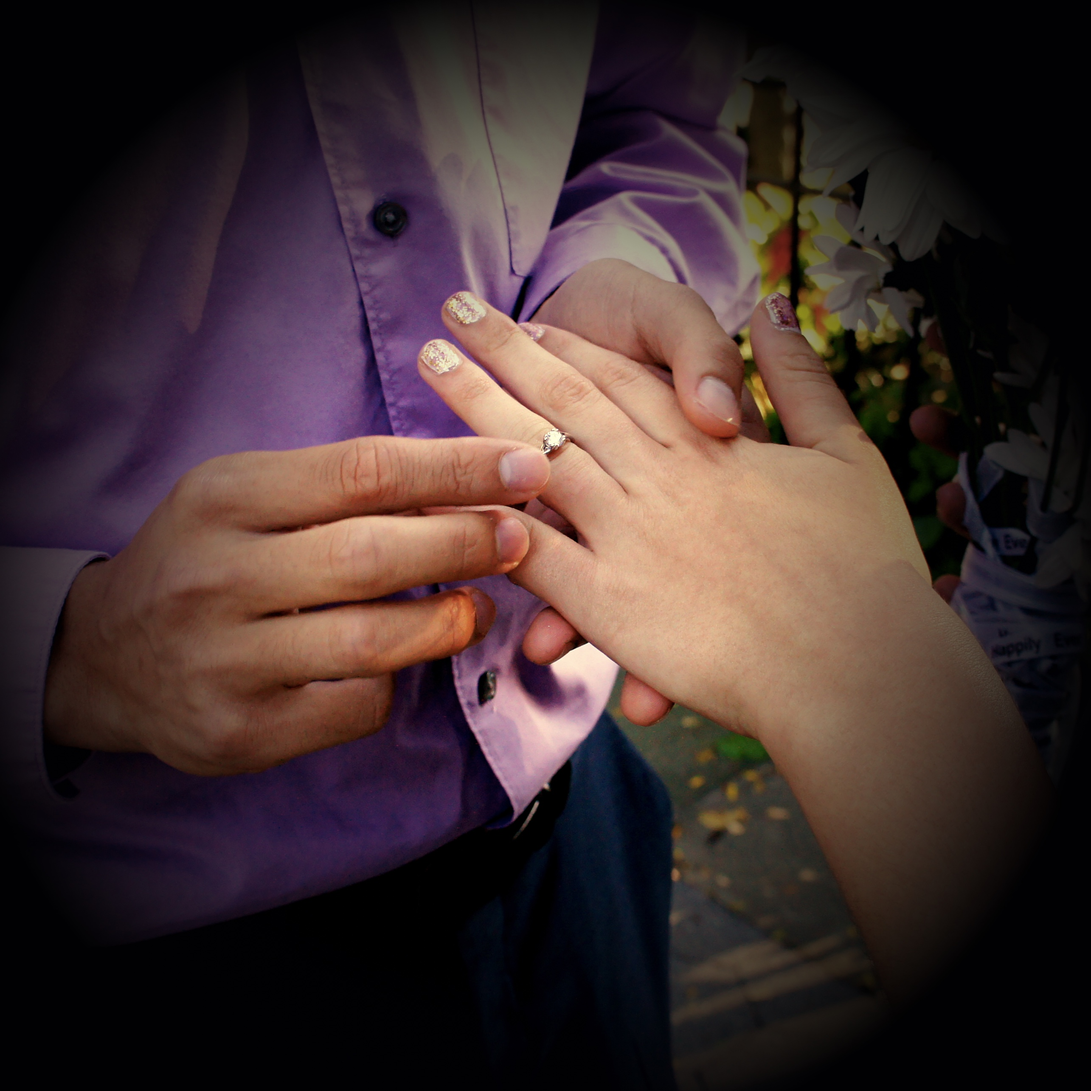
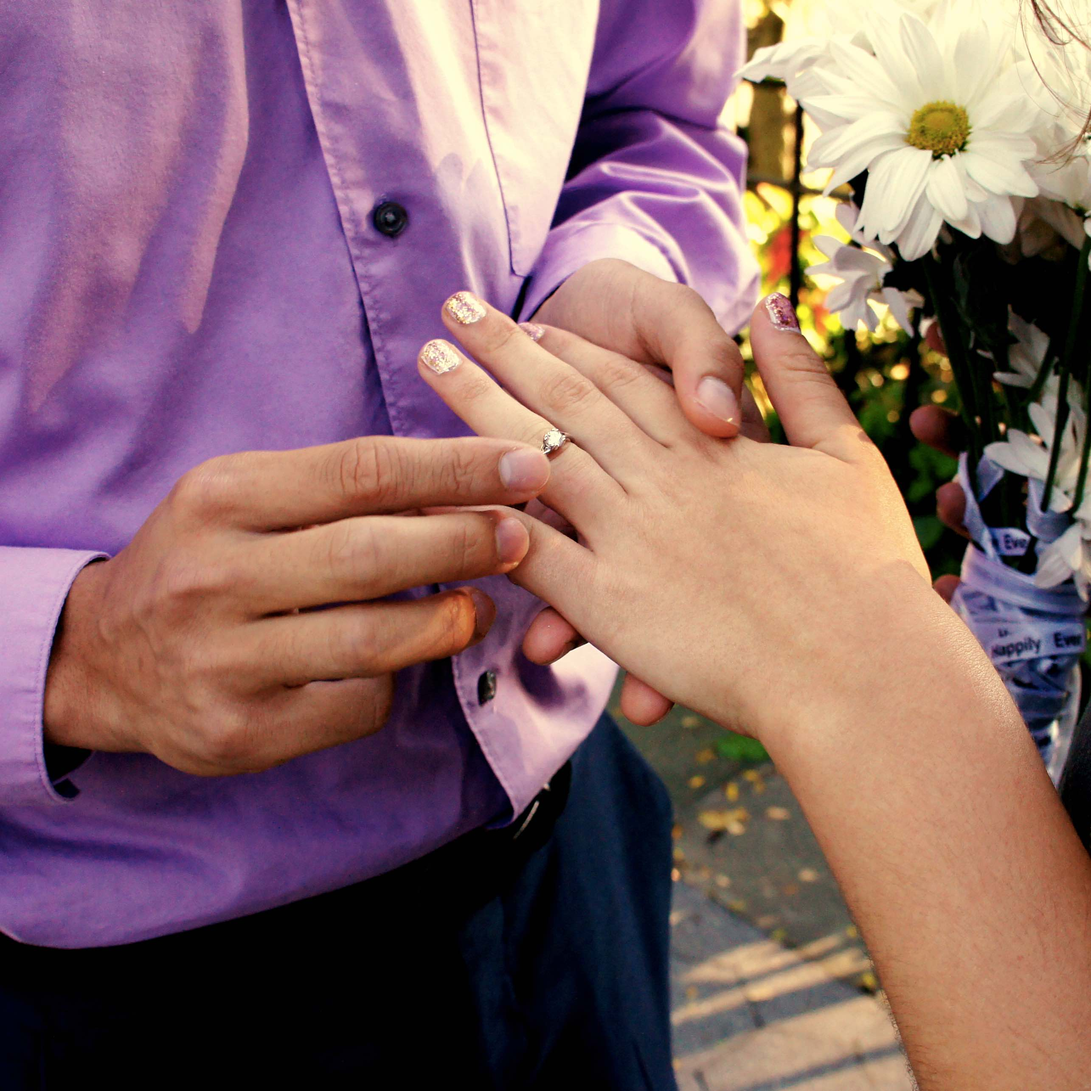
add(many): cleaning up and adding bio content

diff --git a/index.html b/index.html
@@ -60,10 +60,14 @@
       <h2 class="sectiontitle">OUR STORY</h2>
       <div class="section col-md-1"></div>
       <div class="section col-md-3">
-        <img class="img-responsive" src="img/tannijames.png">
+        <img class="img-responsive img-circle partyimages" src="img/tannijames.jpg">
       </div>
       <div class="section col-md-7">
-        <p>Lorem ipsum dolor sit amet, consectetur adipiscing elit, sed do eiusmod tempor incididunt ut labore et dolore magna aliqua. Ut enim ad minim veniam, quis nostrud exercitation ullamco laboris nisi ut aliquip ex ea commodo consequat. Duis aute irure dolor in reprehenderit in voluptate velit esse cillum dolore eu fugiat nulla pariatur. Excepteur sint occaecat cupidatat non proident, sunt in culpa qui officia deserunt mollit anim id est laborum.</p>
+        <p>Shortly after starting their freshman year at Columbia University, Tanni and James met for the first time. Both had gotten involved with Christian Union at Columbia, a ministry and family that would later evolve into Columbia Faith and Action, earlier in the semester, but at that point the men and the women in the group had not crossed the gender barrier and met each other yet. And so at a Christian Union social event in JJ's Place, the two were fatefully introduced... and did not speak a word to each other that night.</p>
+
+        <p>Their first conversation was prompted by Tanni (at the time called "Tatianna" by James) being the sole attendee of a praise and worship night hosted by James. After struggling through finding songs they both knew, they settled on DCB's "How He Loves" (it turned out that Tanni actually quite disliked the song, while James was long under the impression that she loved it). Over the course of the next year, both Tanni and James served in leadership for CFA and grew in mutual admiration, seeing the other's love for Jesus and care for others.</p>
+
+        <p>This admiration gradually grew into attraction which became solidified in commitment on March 31, 2013. James and Tanni greatly enjoyed their time dating, experiencing the ups and downs and ups of learning one another, meeting the other's family, and having adventures both together and at a distance from one another. However, this finally changed on a fateful Sunday in October 2014...</p>
       </div>
       <div class="section col-md-1"></div>
     </div>
@@ -77,7 +81,7 @@
         <p>Lorem ipsum dolor sit amet, consectetur adipiscing elit, sed do eiusmod tempor incididunt ut labore et dolore magna aliqua. Ut enim ad minim veniam, quis nostrud exercitation ullamco laboris nisi ut aliquip ex ea commodo consequat. Duis aute irure dolor in reprehenderit in voluptate velit esse cillum dolore eu fugiat nulla pariatur. Excepteur sint occaecat cupidatat non proident, sunt in culpa qui officia deserunt mollit anim id est laborum.</p>
       </div>
       <div class="section col-md-3">
-        <img class="img-responsive" src="img/proposal.jpg">
+        <img class="img-responsive img-circle partyimages" src="img/proposal.jpg">
       </div>
       <div class="section col-md-1"></div>
     </div>
@@ -190,11 +194,11 @@
 
   <div class="guest-bio" id="xue">
       <h2>James Xue, Best Man</h2>
-      <p>Lorem ipsum dolor sit amet, consectetur adipiscing elit, sed do eiusmod tempor incididunt ut labore et dolore magna aliqua. Ut enim ad minim veniam, quis nostrud exercitation ullamco laboris nisi ut aliquip ex ea commodo consequat. Duis aute irure dolor in reprehenderit in voluptate velit esse cillum dolore eu fugiat nulla pariatur. Excepteur sint occaecat cupidatat non proident, sunt in culpa qui officia deserunt mollit anim id est laborum.</p>
+      <p>He is Chinese-American, studies Computer Science, hails from a suburban town about 2 hours from New York City, has a sister who graduated from Johns Hopkins, and loves Jesus; he is James... Xue. After finding out that he shared a rather unusual number of traits with the groom, James subsequently agreed to be the groom's roommate and best friend for every one of their four years at Columbia. In their prime, you could commonly find these two coding, taking late night strolls around campus, and balling at Dodge. Through all of these experiences and more, James has forever shaped the trajectory of the groom's life into one of more love, more serious thought and reflection, and more of God's adventure. James holds bioinformatics and Columbia's Christian A Capella group Jubilation! dear to his heart, and he will be pursuing a PhD and research career in one of the two.</p>
   </div>
   <div class="guest-bio" id="karl">
       <h2>Karl Li, Best Man</h2>
-      <p>Lorem ipsum dolor sit amet, consectetur adipiscing elit, sed do eiusmod tempor incididunt ut labore et dolore magna aliqua. Ut enim ad minim veniam, quis nostrud exercitation ullamco laboris nisi ut aliquip ex ea commodo consequat. Duis aute irure dolor in reprehenderit in voluptate velit esse cillum dolore eu fugiat nulla pariatur. Excepteur sint occaecat cupidatat non proident, sunt in culpa qui officia deserunt mollit anim id est laborum.</p>
+      <p>Sometime around the 4th grade, when the groom discovered that he possessed a Gameboy Link Cable, Karl became a much cherished friend in the groom's eyes. Little did either of them know that this was the beginning of a special friendship, rivaling the brotherhood of Mario and Luigi, which would mold and shape them both in those formative years. Karl taught the groom how to be transparent before his peers, how NOT to interact with girls back in middle school and high school, and how to love Jesus with fervor and intensity. With Relient K as their muse, Karl and the groom could often be found in the church sanctuary jamming on guitar and bass as well as loving on their Brothers-in-Christ in various ways. Karl is passionate about business, technology, and the Gospel, and he will be in Philadelphia start his labor in tech consulting in the coming months.</p>
   </div>
     <div class="guest-bio" id="dasha">
       <h2>Dasha Korolev, Maid of Honor</h2>
@@ -205,11 +209,11 @@
       <p>Lorem ipsum dolor sit amet, consectetur adipiscing elit, sed do eiusmod tempor incididunt ut labore et dolore magna aliqua. Ut enim ad minim veniam, quis nostrud exercitation ullamco laboris nisi ut aliquip ex ea commodo consequat. Duis aute irure dolor in reprehenderit in voluptate velit esse cillum dolore eu fugiat nulla pariatur. Excepteur sint occaecat cupidatat non proident, sunt in culpa qui officia deserunt mollit anim id est laborum.</p>
   <div class="guest-bio" id="wilson">
       <h2>Wilson Hsu, Groomsman</h2>
-      <p>Lorem ipsum dolor sit amet, consectetur adipiscing elit, sed do eiusmod tempor incididunt ut labore et dolore magna aliqua. Ut enim ad minim veniam, quis nostrud exercitation ullamco laboris nisi ut aliquip ex ea commodo consequat. Duis aute irure dolor in reprehenderit in voluptate velit esse cillum dolore eu fugiat nulla pariatur. Excepteur sint occaecat cupidatat non proident, sunt in culpa qui officia deserunt mollit anim id est laborum.</p>
+      <p>Wilson and the groom met a long, long time ago, back in the days of full day Vacation Bible School and Chinese Culture Camp, where slip 'n slides and grappling tournaments were highlights of the summer months. Over the years, Wilson could often be found teaching the groom to breakdance among other athletic and artistic endeavors, getting him to loosen and lighten up, and filling out the rhythm section of Jamwilkarsones with the groom. Their relationship was not always smooth; it had to endure times of intense drama, anger, passion, and compassion. But praise God that He used these moments in His infinite wisdom. Wilson taught the groom about loyalty and resilience, both of which are challenging lessons. When he isn't serving and loving his ROX and Pi Alpha Phi communities, he can be found playing a variety sports or video games; Wilson will be pursuing a career in tech after graduation.</p>
   </div>
   <div class="guest-bio" id="ryan">
       <h2>Ryan Bae, Groomsman</h2>
-      <p>Lorem ipsum dolor sit amet, consectetur adipiscing elit, sed do eiusmod tempor incididunt ut labore et dolore magna aliqua. Ut enim ad minim veniam, quis nostrud exercitation ullamco laboris nisi ut aliquip ex ea commodo consequat. Duis aute irure dolor in reprehenderit in voluptate velit esse cillum dolore eu fugiat nulla pariatur. Excepteur sint occaecat cupidatat non proident, sunt in culpa qui officia deserunt mollit anim id est laborum.</p>
+      <p>On the first day of college, Ryan was the first member of Carman 204 that the groom encountered. Through his amazing gift of finding free events and discounted excursions in the New York, Ryan brought many adventures to the four members of 204 and beyond. Over their time at Columbia, Ryan and the groom shared countless highs and lows, serious conversations and light-hearted Starcraft matches, tears and laughter. He showed the groom what it looks like to bounce back from adversity; in their time together, he displayed and inspired bravery in the face of his personal fears and obstacles. Ryan can often be found tinkering with and dreaming of the next big start up idea as well as enjoying food from around the neighborhood with the groom and others. He loves solving challenging business problems and looks forward to consulting and entrepreneurship in his future.</p>
   </div>
     <div class="guest-bio" id="shayna">
       <h2>Shayna Orens, Bridesmaid</h2>

diff --git a/css/styles.css b/css/styles.css
@@ -87,6 +87,24 @@
   -webkit-mask-image: radial-gradient(50% 50%, black 65%, transparent 100%);
 }
 
+@media all and (min-width: 500px){
+  .partyimages {
+    margin-left: auto;
+    margin-right: auto;
+    width: 350px;
+    -webkit-mask-image: radial-gradient(50% 50%, black 65%, transparent 100%);
+  }
+}
+
+@media all and (max-width: 1238px){
+  .partyimages {
+    margin-left: auto;
+    margin-right: auto;
+    width: 350px;
+    -webkit-mask-image: radial-gradient(50% 50%, black 65%, transparent 100%);
+  }
+}
+
 .guest-bio {
   display: none;
 }
